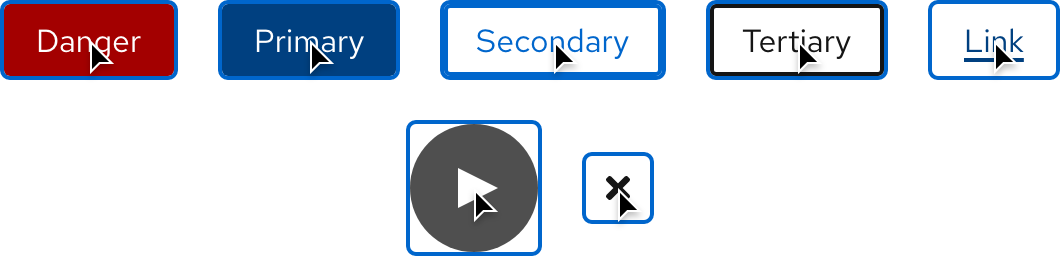
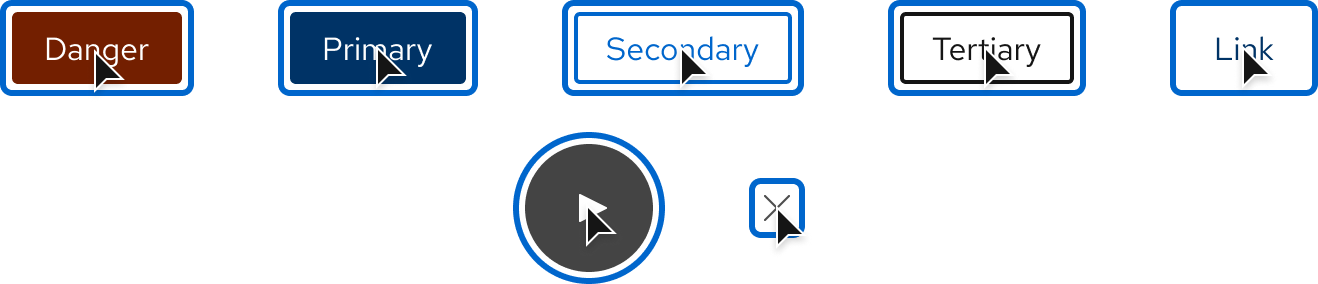
fix(button): align focus indicator with the focus ring token (#3342)
* chore: updated focus-visible styles

* Update .changeset/rh-button-focus-visible.md

* Update elements/rh-button/rh-button.css

* fix: focus style

* docs: updated interaction state images

* fix: update doc image format

* fix: doc image resolution

* chore: update documentation image

* chore: updated felt theme disabled button border radius

---------

Changed region(s): [[0.0, 0.0, 0.8406, 0.3438], [0.3736, 0.4688, 0.6226, 1.0], [0.8717, 0.0, 1.0, 0.3438]]

diff --git a/elements/rh-button/rh-button.css b/elements/rh-button/rh-button.css
@@ -45,9 +45,6 @@ button {
   /** Button horizontal spacing */
   padding-inline: var(--rh-space-lg, 16px);
 
-  /** Button focus ring offset */
-  outline-offset: var(--rh-length-4xs, 1px);
-
   &:after {
     position: absolute;
     inset: 0;
@@ -92,21 +89,29 @@ button {
 
     /** Primary border width */
     --_border-width: var(--rh-border-width-sm, 1px);
-
-    /** Primary active text color */
-    --_active-color: var(--rh-color-text-primary-on-dark, #ffffff);
+    --_active-color:
+      light-dark(
+          /** Primary active text color for light scheme */
+          var(--rh-color-text-primary-on-dark, #ffffff),
+          /** Primary active text color for dark scheme */
+          var(--rh-color-text-primary-on-light, #151515)
+        );
 
     /** Primary active background color */
-    --_active-background-color: var(--rh-color-interactive-primary-hover-on-light, #003366);
+    --_active-background-color: var(--rh-color-interactive-primary-active);
 
     /** Primary active border width */
     --_active-border-width: var(--rh-border-width-sm, 1px);
-
-    /** Primary focus text color */
-    --_focus-color: var(--rh-color-text-primary-on-dark, #ffffff);
+    --_focus-color:
+      light-dark(
+          /** Primary focus text color for light scheme */
+          var(--rh-color-text-primary-on-dark, #ffffff),
+          /** Primary focus text color for dark scheme */
+          var(--rh-color-text-primary-on-light, #151515)
+        );
 
     /** Primary focus background color */
-    --_focus-background-color: var(--rh-color-interactive-primary-hover-on-light, #003366);
+    --_focus-background-color: var(--rh-color-interactive-primary-focus);
 
     /** Primary focus border width */
     --_focus-border-width: var(--rh-border-width-md, 2px);
@@ -445,17 +450,10 @@ button {
     --_border-width: var(--_hover-border-width);
   }
 
-  &:focus {
+  &:focus-visible {
     --_color: var(--_focus-color);
     --_background-color: var(--_focus-background-color);
     --_border-width: var(--_focus-border-width);
-
-    outline:
-      /** Focus outline width */
-      var(--rh-border-width-md, 2px)
-      solid
-      /** Focus outline color */
-      var(--rh-color-interactive-primary-default);
 
     &:after {
       border-width:
@@ -465,10 +463,35 @@ button {
     }
   }
 
+  &:is(:focus-visible, :active) {
+    outline:
+      /** Focus outline width */
+      var(--rh-border-width-lg, 3px)
+      solid
+      /** Focus outline color; theme-adaptive */
+      var(--rh-color-border-focus);
+
+    /** Focus outline offset */
+    outline-offset: var(--rh-border-width-lg, 3px);
+    transition: none;
+  }
+
   &:active {
     --_color: var(--_active-color);
     --_background-color: var(--_active-background-color);
     --_border-width: var(--_active-border-width);
+  }
+
+  /*
+   * A focused disabled secondary or tertiary button keeps its 1px border.
+   * The focus ring is the only added indicator.
+   */
+  &[aria-disabled='true']:is(.secondary, .tertiary):is(:focus-visible, :active) {
+    --_border-width: var(--rh-border-width-sm, 1px);
+  }
+
+  &:focus:not(:focus-visible, :active) {
+    outline: none;
   }
 
   & > span {

diff --git a/docs/theming/themes/project-felt/preview/felt-theme-preview.css b/docs/theming/themes/project-felt/preview/felt-theme-preview.css
@@ -590,29 +590,31 @@
     &[variant='primary'] {
       --rh-color-text-primary-on-light: var(--rh-color-gray-90, #1f1f1f);
 
-      &::part(button):hover {
-        background-color: var(--felt-preview-color-interactive-primary-hover);
-      }
-
-      &::part(button):focus-visible {
-        background-color: var(--felt-preview-color-interactive-primary-focus);
-      }
-
-      &::part(button):active {
-        background-color: var(--felt-preview-color-interactive-primary-active);
-      }
-
-      &[danger] {
+      &:not(:disabled) {
         &::part(button):hover {
-          background-color: var(--felt-preview-color-status-danger-hover);
+          background-color: var(--felt-preview-color-interactive-primary-hover);
         }
 
         &::part(button):focus-visible {
-          background-color: var(--felt-preview-color-status-danger-focus);
+          background-color: var(--felt-preview-color-interactive-primary-focus);
         }
 
         &::part(button):active {
-          background-color: var(--felt-preview-color-status-danger-active);
+          background-color: var(--felt-preview-color-interactive-primary-active);
+        }
+
+        &[danger] {
+          &::part(button):hover {
+            background-color: var(--felt-preview-color-status-danger-hover);
+          }
+
+          &::part(button):focus-visible {
+            background-color: var(--felt-preview-color-status-danger-focus);
+          }
+
+          &::part(button):active {
+            background-color: var(--felt-preview-color-status-danger-active);
+          }
         }
       }
     }
@@ -833,6 +835,12 @@
       --felt-preview-button-padding-block: var(--felt-preview-button-padding-block-compact);
       --rh-space-sm: var(--felt-preview-button-padding-block-compact);
       --rh-space-lg: var(--felt-preview-button-padding-inline-compact);
+    }
+
+    /* Disabled focus keeps the 1px border. The focus ring is the only added indicator. */
+    &[variant='secondary']:disabled::part(button):focus-visible,
+    &[variant='tertiary']:disabled::part(button):focus-visible {
+      --rh-border-width-sm: var(--felt-preview-border-width-sm);
     }
   }
 

diff --git a/elements/rh-button/docs/10-style.md b/elements/rh-button/docs/10-style.md
@@ -33,18 +33,18 @@ Buttons are available for both light and dark color schemes.
 
 ### Light and dark themes
 
-<uxdot-example color-palette="lightest" width-adjustment="494px">
+<uxdot-example color-palette="lightest" width-adjustment="680px">
   <img alt="Image of light theme Danger, Primary, Secondary, Tertiary, Link, Play, and Close buttons"
-       src="../button-theme-light.png"
-       width="494"
-       height="124">
+       src="../button-interaction-state-default-theme-light.png"
+       width="680"
+       height="146">
 </uxdot-example>
 
-<uxdot-example color-palette="darkest" width-adjustment="494px">
+<uxdot-example color-palette="darkest" width-adjustment="680px">
   <img alt="Image of dark theme Danger, Primary, Secondary, Tertiary, Link, Play, and Close buttons"
-       src="../button-theme-dark.png"
-       width="494"
-       height="124">
+       src="../button-interaction-state-default-theme-dark.png"
+       width="680"
+       height="146">
 </uxdot-example>
 
 <rh-table>
@@ -107,18 +107,18 @@ an element or pattern.
 
 ### Hover
 
-<uxdot-example color-palette="lightest" width-adjustment="495px">
+<uxdot-example color-palette="lightest" width-adjustment="680px">
   <img alt="Image of light theme button hover states"
        src="../button-interaction-state-hover-theme-light.png"
-       width="495"
-       height="124">
+       width="680"
+       height="146">
 </uxdot-example>
 
-<uxdot-example color-palette="darkest" width-adjustment="495px">
+<uxdot-example color-palette="darkest" width-adjustment="680px">
   <img alt="Image of dark theme button hover states"
        src="../button-interaction-state-hover-theme-dark.png"
-       width="495"
-       height="124">
+       width="680"
+       height="146">
 </uxdot-example>
 
 <rh-table>
@@ -143,18 +143,18 @@ an element or pattern.
   <p>The Focus state has the same styles as the Hover state.</p>
 </rh-alert>
 
-<uxdot-example color-palette="lightest" width-adjustment="530px">
+<uxdot-example color-palette="lightest" width-adjustment="680px">
   <img alt="Image of light theme button focus states"
        src="../button-interaction-state-focus-theme-light.png"
-       width="530"
-       height="128">
+       width="680"
+       height="146">
 </uxdot-example>
 
-<uxdot-example color-palette="darkest" width-adjustment="530px">
+<uxdot-example color-palette="darkest" width-adjustment="680px">
   <img alt="Image of dark theme button focus states"
        src="../button-interaction-state-focus-theme-dark.png"
-       width="530"
-       height="128">
+       width="680"
+       height="146">
 </uxdot-example>
 
 
@@ -173,18 +173,18 @@ an element or pattern.
   <p>The Active state has the same styles as the Hover state.</p>
 </rh-alert>
 
-<uxdot-example color-palette="lightest" width-adjustment="530px">
+<uxdot-example color-palette="lightest" width-adjustment="680px">
   <img alt="Image of light theme button active states"
        src="../button-interaction-state-active-theme-light.png"
-       width="530"
-       height="128">
+       width="680"
+       height="146">
 </uxdot-example>
 
-<uxdot-example color-palette="darkest" width-adjustment="530px">
+<uxdot-example color-palette="darkest" width-adjustment="680px">
   <img alt="Image of dark theme button active states"
        src="../button-interaction-state-active-theme-dark.png"
-       width="530"
-       height="128">
+       width="680"
+       height="146">
 </uxdot-example>
 
 <rh-table>

diff --git a/.changeset/rh-button-focus-visible.md b/.changeset/rh-button-focus-visible.md
@@ -1,0 +1,5 @@
+---
+"@rhds/elements": patch
+---
+
+`<rh-button>`: corrected hover, focus, and active states
